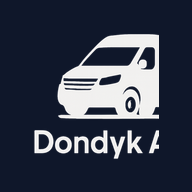
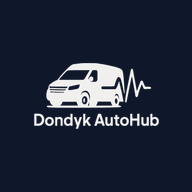
Оновлення іконок (повна видимість на ярликах) та виправлення в конфігурації запчастин

Changed region(s): [[0.1562, 0.1562, 0.8438, 0.8438], [0.4688, 0.25, 0.5, 0.2812]]

diff --git a/config/partsConfig.js b/config/partsConfig.js
@@ -271,7 +271,7 @@ export const PARTS_CONFIG = {
         'діагностика гальмівної системи',
         'елемент гальмівного супорту',
         'суппорт обслуживание',
-        'гальмівної ситеми'
+        'гальмівної ситеми',
         'ремкомплект супорт',
         'супорт ремкомплект',
         'ремкомплект суппорт',
